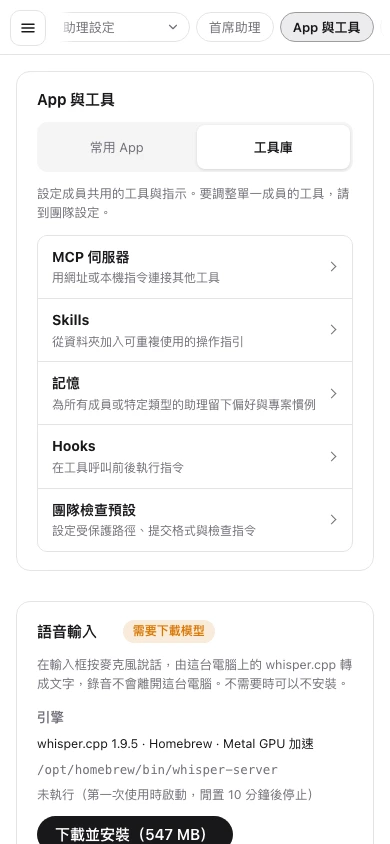
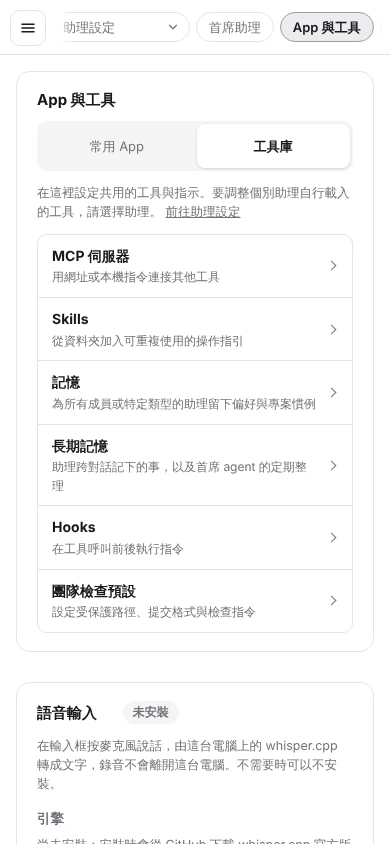
Show long-term memory in the guided tour and the site's docs, with new screenshots
Guided tour
- A "Long-term memory" step after "Connect apps to your chats", in both
  languages; TOUR_VERSION 38, so a browser that finished the tour sees it once.
- test/tour.test.ts (the changed steps since each version, the fingerprint) and
  e2e/specs/appearance.spec.ts (the returning browser's steps) follow it; the e2e
  README in both languages says so.

Site docs
- The Tools page's Long-term memory section, in both languages, shows the card
  under a reply and the Settings row, from new screenshots of the built UI with
  the fake CLIs (each with its origin in a .webp.json sidecar).
- The Tool library screenshots (desktop and phone, both languages) taken again:
  they show six categories now.

Wording
- zh-TW: a space after "首席 agent" before Chinese text, as elsewhere.

Claude-Session: https://claude.ai/code/session_01KJpwTSWu9AnuzKRkqZuWi9

diff --git a/src/web/locales/zh-TW.ts b/src/web/locales/zh-TW.ts
@@ -922,11 +922,11 @@ export const zhTW = {
     hint: '助理在對話中學到、之後的對話也用得到的事：你的偏好和決定、查證過的事實、要避開的錯誤。每則記憶各自一筆，你可以修改、釘選、擱置或刪除。釘選的記憶每個對話都會帶入；其他記憶在和你說的話相關時才提供給助理。',
     enabled: '讓助理讀取和記下長期記憶',
     review: '助理新記下或修正的記憶，要我保留後才使用',
-    autoTidy: '讓首席 agent定期整理記憶',
+    autoTidy: '讓首席 agent 定期整理記憶',
     autoTidyHint: (changes: number, hours: number) =>
-      `累積 ${changes} 則新增或修改的記憶後，首席 agent會對照它們出自的對話來修正、合併和擱置，並挑出每個對話都需要的記憶釘選；最多每 ${hours} 小時一次，使用首席 agent的帳號。你寫的記憶不會被改動。`,
+      `累積 ${changes} 則新增或修改的記憶後，首席 agent 會對照它們出自的對話來修正、合併和擱置，並挑出每個對話都需要的記憶釘選；最多每 ${hours} 小時一次，使用首席 agent 的帳號。你寫的記憶不會被改動。`,
     tidyNow: '立即整理',
-    tidying: '首席 agent正在整理記憶…',
+    tidying: '首席 agent 正在整理記憶…',
     lastTidy: (when: string, changes: number) => `上次整理：${when}，${changes} 項變更`,
     lastTidyFailed: (when: string, error: string) => `上次整理失敗（${when}）：${error}`,
     changedSince: (n: number) => `自上次整理後有 ${n} 則記憶變動`,
@@ -948,7 +948,7 @@ export const zhTW = {
     everywhere: '所有對話',
     folder: (name: string) => `資料夾：${name}`,
     pinned: '已釘選',
-    pinnedByLead: '首席 agent釘選',
+    pinnedByLead: '首席 agent 釘選',
     pin: '釘選',
     unpin: '取消釘選',
     edit: '編輯',
@@ -1841,7 +1841,7 @@ export const zhTW = {
       mcp: '用網址或本機指令連接其他工具',
       skills: '從資料夾加入可重複使用的操作指引',
       memory: '為所有成員或特定類型的助理留下偏好與專案慣例',
-      longTerm: '助理跨對話記下的事，以及首席 agent的定期整理',
+      longTerm: '助理跨對話記下的事，以及首席 agent 的定期整理',
       hooks: '在工具呼叫前後執行指令',
       checks: '設定受保護路徑、提交格式與檢查指令',
     },
@@ -2737,6 +2737,16 @@ export const zhTW = {
           '使用 Gmail、Google Calendar 或 Google Drive 時，在該服務的設定中登入 Google。在各帳號的 Drive 卡片上可開啟文件編輯，也可單獨移除 Drive，保留 Gmail 和行事曆。「帳號登入設定（OAuth 2.0）」提供設定教學，也可解除整個 Google 或 Microsoft 帳號的連結。',
           '展開個別工具那一列，選擇可使用該工具的助理。Slack 請在「從 Relay 傳送訊息」中選擇可擬稿的助理。傳送訊息、變更 Obsidian 筆記及寫入 Google 文件前，Relay 都會先顯示預覽，等你確認。',
           '要加入自訂工具、Skill 或共用指示，切換到「工具庫」分頁。',
+        ],
+      },
+      {
+        title: '長期記憶',
+        body: '助理會記下在一個對話中學到、之後的對話也用得到的事：你的偏好和決定、查證過的事實、要避開的錯誤。你可以要助理記住某件事，也可以讓它自己判斷什麼值得保留。',
+        points: [
+          '記下記憶的回覆，會在文字下方顯示長期記憶卡片：擱置會讓助理不再拿到它，還原可以恢復',
+          '釘選的記憶會帶進每個對話；其他記憶在和你說的話相關時才提供給助理',
+          '設定 → App 與工具 → 工具庫 → 長期記憶列出所有記憶，可以搜尋、編輯、釘選、擱置或刪除，也可以讓新記憶等你保留後才使用',
+          '首席 agent 會不時對照記憶來自的對話整理它們，但從不修改你寫的記憶',
         ],
       },
       {

diff --git a/test/tour.test.ts b/test/tour.test.ts
@@ -45,6 +45,7 @@ describe('guided tour', () => {
         'Team checks',
         'Automations',
         'Connect apps to your chats',
+        'Long-term memory',
       ]);
       expect(titles(21)).toEqual([
         'Connect your phone',
@@ -53,6 +54,7 @@ describe('guided tour', () => {
         'Notifications and sound',
         'Automations',
         'Connect apps to your chats',
+        'Long-term memory',
       ]);
       expect(titles(22)).toEqual([
         'Connect your phone',
@@ -61,6 +63,7 @@ describe('guided tour', () => {
         'Notifications and sound',
         'Automations',
         'Connect apps to your chats',
+        'Long-term memory',
       ]);
       for (let version = 23; version <= 32; version++) {
         expect(titles(version)).toEqual([
@@ -68,13 +71,15 @@ describe('guided tour', () => {
           'Start a new chat',
           'Automations',
           'Connect apps to your chats',
+          'Long-term memory',
         ]);
       }
-      expect(titles(33)).toEqual(['API keys and endpoints for open-source agents', 'Start a new chat', 'Automations']);
-      expect(titles(34)).toEqual(['API keys and endpoints for open-source agents', 'Start a new chat', 'Automations']);
-      expect(titles(35)).toEqual(['API keys and endpoints for open-source agents', 'Start a new chat', 'Automations']);
-      expect(titles(36)).toEqual(['Start a new chat', 'Automations']);
-      expect(tourIndices(37)).toEqual([]);
+      expect(titles(33)).toEqual(['API keys and endpoints for open-source agents', 'Start a new chat', 'Automations', 'Long-term memory']);
+      expect(titles(34)).toEqual(['API keys and endpoints for open-source agents', 'Start a new chat', 'Automations', 'Long-term memory']);
+      expect(titles(35)).toEqual(['API keys and endpoints for open-source agents', 'Start a new chat', 'Automations', 'Long-term memory']);
+      expect(titles(36)).toEqual(['Start a new chat', 'Automations', 'Long-term memory']);
+      expect(titles(37)).toEqual(['Long-term memory']);
+      expect(tourIndices(38)).toEqual([]);
       value = '21';
       expect(pendingTour()).toBe(21);
       markDone();
@@ -118,6 +123,6 @@ describe('guided tour', () => {
     // The steps changed? Raise TOUR_VERSION in src/web/tour.ts so people who finished the tour
     // see the updated steps, then update both values here. For a change not worth showing again (a typo), update only the
     // fingerprint.
-    expect({ version: TOUR_VERSION, fingerprint }).toEqual({ version: 37, fingerprint: 'eae724ee5cd3' });
+    expect({ version: TOUR_VERSION, fingerprint }).toEqual({ version: 38, fingerprint: 'c963e30c3460' });
   });
 });

diff --git a/e2e/specs/appearance.spec.ts b/e2e/specs/appearance.spec.ts
@@ -86,7 +86,7 @@ test.describe('the guided tour', () => {
     await page.reload();
     const update = page.getByRole('dialog');
     await expect(update).toHaveAccessibleName('Connect your phone');
-    await expect(update.locator('.tour-count:visible')).toHaveText('1 / 7');
+    await expect(update.locator('.tour-count:visible')).toHaveText('1 / 8');
     await expect(update.locator('.tour-art')).toHaveCount(0);
     await update.getByRole('button', { name: 'Next' }).click();
     await expect(update).toHaveAccessibleName('API keys and endpoints for open-source agents');
@@ -97,7 +97,7 @@ test.describe('the guided tour', () => {
     // Closing an unfinished update keeps the last completed version, including changes from skipped releases.
     await page.reload();
     await expect(update).toHaveAccessibleName('Connect your phone');
-    await expect(update.locator('.tour-count:visible')).toHaveText('1 / 7');
+    await expect(update.locator('.tour-count:visible')).toHaveText('1 / 8');
     await update.getByRole('button', { name: 'Next' }).click();
     await expect(update).toHaveAccessibleName('API keys and endpoints for open-source agents');
     await update.getByRole('button', { name: 'Next' }).click();
@@ -110,6 +110,8 @@ test.describe('the guided tour', () => {
     await expect(update).toHaveAccessibleName('Automations');
     await update.getByRole('button', { name: 'Next' }).click();
     await expect(update).toHaveAccessibleName('Connect apps to your chats');
+    await update.getByRole('button', { name: 'Next' }).click();
+    await expect(update).toHaveAccessibleName('Long-term memory');
     await update.getByRole('button', { name: 'Done', exact: true }).click();
     await page.reload();
     await appShown(page);
@@ -121,6 +123,8 @@ test.describe('the guided tour', () => {
     await expect(update).toHaveAccessibleName('Start a new chat');
     await update.getByRole('button', { name: 'Next' }).click();
     await expect(update).toHaveAccessibleName('Automations');
+    await update.getByRole('button', { name: 'Next' }).click();
+    await expect(update).toHaveAccessibleName('Long-term memory');
     await update.getByRole('button', { name: 'Done', exact: true }).click();
     await expect(update).toHaveCount(0);
     await page.getByRole('link', { name: /Settings & sign-in/ }).click();

diff --git a/site/zh-TW/docs/tools/index.html b/site/zh-TW/docs/tools/index.html
@@ -586,7 +586,15 @@
         <section id="long-term-memory" aria-labelledby="long-term-memory-title">
           <h2 id="long-term-memory-title">長期記憶</h2>
           <p>agent 會把在對話中學到、之後的對話也用得到的事記下來，例如你的偏好和決定，或查證過的事實；在你要它記住某件事，或明顯值得保留時記下。每則記憶都會顯示在記下它的回覆下方的<b>長期記憶</b>卡片裡，你可以在那裡擱置或還原它。釘選的記憶會帶進每個對話；其他記憶在和你說的話相關時才提供給 agent。</p>
+          <figure class="doc-figure">
+            <a href="../../../assets/media/docs/tools-memory-card-zh-TW.webp"><img src="../../../assets/media/docs/tools-memory-card-zh-TW.webp" width="754" height="78" alt="回覆下方的長期記憶卡片：記下「我們都在週五發版，週一不發版」，標示使用中，並有擱置按鈕。" loading="lazy" /></a>
+            <figcaption>記下記憶的回覆下方的卡片。</figcaption>
+          </figure>
           <p>展開<b>長期記憶</b>可以搜尋、新增、編輯、釘選、擱置與刪除記憶，也可以選擇新記憶是否要等你保留。首席 agent 會不時對照記憶來自的對話整理它們，也可以按<b>立即整理</b>馬上進行；它從不修改你寫的記憶，agent 也從不刪除記憶。</p>
+          <figure class="doc-figure">
+            <a href="../../../assets/media/docs/tools-long-term-memory-zh-TW.webp"><img src="../../../assets/media/docs/tools-long-term-memory-zh-TW.webp" width="840" height="759" alt="展開的長期記憶列：三個開關、立即整理、新增記憶的輸入框，以及三則使用中的記憶，其中一則已釘選，每則都標出怎麼知道的、作者，以及釘選、編輯與擱置按鈕。" loading="lazy" /></a>
+            <figcaption>依狀態列出每則記憶，以及作者和來自哪個對話。</figcaption>
+          </figure>
         </section>
 
         <section id="hooks" aria-labelledby="hooks-title">

diff --git a/site/docs/tools/index.html b/site/docs/tools/index.html
@@ -609,9 +609,17 @@
               they checked, when you ask them to remember something or when it is clearly worth keeping. Each note shows in a
               <b>Long-term memory</b> card under the reply that saved it, where you can set it aside or restore it. Pinned notes
               come with every chat; the others reach an agent when they bear on what you said.</p>
+          <figure class="doc-figure">
+            <a href="../../assets/media/docs/tools-memory-card-en.webp"><img src="../../assets/media/docs/tools-memory-card-en.webp" width="754" height="78" alt="A Long-term memory card under a reply: Saved, We release on Fridays, never on Mondays, In use, and a Set aside button." loading="lazy" /></a>
+            <figcaption>The card under a reply that saved a note.</figcaption>
+          </figure>
           <p>Open <b>Long-term memory</b> to search, add, edit, pin, set aside and delete notes, and to choose whether new
               notes wait for you to keep them. Now and then the lead agent tidies them against the chats they came from, or
               at once with <b>Tidy up now</b>; it never changes notes you wrote, and agents never delete a note.</p>
+          <figure class="doc-figure">
+            <a href="../../assets/media/docs/tools-long-term-memory-en.webp"><img src="../../assets/media/docs/tools-long-term-memory-en.webp" width="840" height="799" alt="The Long-term memory row opened: its three switches, Tidy up now, a box to add a note, and three notes in use, one pinned, each with how it is known, who wrote it and its Pin, Edit and Set aside buttons." loading="lazy" /></a>
+            <figcaption>Every note, by state, with who wrote it and the chat it came from.</figcaption>
+          </figure>
         </section>
 
         <section id="hooks" aria-labelledby="hooks-title">

diff --git a/src/web/locales/en.ts b/src/web/locales/en.ts
@@ -2753,6 +2753,16 @@ export const en: Messages = {
         ],
       },
       {
+        title: 'Long-term memory',
+        body: 'Agents keep what they learn in one chat that later chats can use: your preferences and decisions, facts they checked, mistakes to avoid. Ask an agent to remember something, or let it judge what is worth keeping.',
+        points: [
+          'A reply that saved a note shows it in a Long-term memory card under its text: Set aside stops agents getting it, and Restore brings it back',
+          'Pinned notes come with every chat; the others reach an agent when they bear on what you said',
+          'Settings → Apps and tools → Tool library → Long-term memory lists every note to search, edit, pin, set aside or delete, and can hold new notes until you keep them',
+          'Now and then the lead agent tidies the notes against the chats they came from; it never changes notes you wrote',
+        ],
+      },
+      {
         title: 'Agent sessions and AgentsView',
         body: 'Want a close look at what each agent did? In Settings → Agent sessions:',
         points: [

diff --git a/src/web/tour.ts b/src/web/tour.ts
@@ -1,6 +1,6 @@
 // This browser's last finished or skipped tour. Pre-versioned tours stored '1' in the same key.
 const DONE_KEY = 'relay:onboarded';
-export const TOUR_VERSION = 37;
+export const TOUR_VERSION = 38;
 
 /** Ordered like tour.steps in both locales. Each revision is when that step last changed for readers. */
 export const TOUR_STEPS: { target?: string; revision: number }[] = [
@@ -23,6 +23,7 @@ export const TOUR_STEPS: { target?: string; revision: number }[] = [
   { target: 'new-schedule', revision: 37 },
   { target: 'organize', revision: 17 },
   { target: 'settings', revision: 33 }, // common apps and the tool library
+  { target: 'settings', revision: 38 }, // long-term memory
   { target: 'settings', revision: 4 }, // agent sessions
   { target: 'settings', revision: 20 }, // settings
 ];

diff --git a/docs/user-guide.zh-TW.md b/docs/user-guide.zh-TW.md
@@ -335,7 +335,7 @@ Grok 只有在你信任過的資料夾，才會讀專案自己的 `AGENTS.md` / 
 - **記憶適用的地方。** 所有對話，或只有工作目錄和記下它時相同的對話（例如某個專案的慣例和指令）。
 - **設定。** 開啟**設定 → App 與工具 → 工具庫 → 長期記憶**，可以看到所有記憶，分成**使用中**、**待確認**和**已擱置**，並標出作者、怎麼知道的（**你說的**、**已查證**、**推論，未查證**）以及來自哪個對話。你可以搜尋、**新增記憶**、**編輯**、**釘選**或**取消釘選**、**擱置**、**還原**與**刪除**。你編輯過的記憶就成為你的。助理從不刪除記憶：它要忘掉的記憶會連同原因被擱置；你寫的或釘選的記憶只有你能改（助理對它的修正會等你按**保留**）。
 - **助理新記下或修正的記憶，要我保留後才使用**會讓每則新記憶與修正都等你確認。**讓助理讀取和記下長期記憶**可以整個關閉或開啟；記憶本身會保留。
-- **整理。** 首席 agent會不時整理（累積五則新增或修改的記憶後，最多每 12 小時一次）：對照記憶來自的對話檢查新記憶、修正、合併重複的、擱置錯誤或不再值得保留的，並釘選每個對話都需要的少數幾則；**立即整理**會馬上進行。整理使用首席 agent的帳號，而且從不修改你寫的記憶。上次整理的摘要顯示在記憶清單上方。關閉**讓首席 agent定期整理記憶**後，就只在你要求時整理。
+- **整理。** 首席 agent 會不時整理（累積五則新增或修改的記憶後，最多每 12 小時一次）：對照記憶來自的對話檢查新記憶、修正、合併重複的、擱置錯誤或不再值得保留的，並釘選每個對話都需要的少數幾則；**立即整理**會馬上進行。整理使用首席 agent 的帳號，而且從不修改你寫的記憶。上次整理的摘要顯示在記憶清單上方。關閉**讓首席 agent 定期整理記憶**後，就只在你要求時整理。
 
 刪除記憶來自的對話時，記憶仍會保留；記憶只存在這台電腦上 Harness Relay 的資料庫裡，分享的對話不包含記憶卡片。記憶是依詞和你說的話比對，所以要讓每個對話都拿到某則記憶，請把它釘選。這和工具庫的**記憶**那一列不同：那一列是你寫給每位助理簡報的筆記。
 

diff --git a/e2e/README.md b/e2e/README.md
@@ -661,7 +661,7 @@ The Tool library links to the agent picker. Following the link, choosing Codex, 
 
 | Scenario | What is checked |
 | --- | --- |
-| Returning browser | A browser that missed several releases sees the revised steps once each. Reloading an unfinished tour restarts those steps. Settings can still replay the full tour. The revised tour points to the Common apps and Tool library tabs under Apps and tools. |
+| Returning browser | A browser that missed several releases sees the revised steps once each. Reloading an unfinished tour restarts those steps. Settings can still replay the full tour. The revised tour points to the Common apps and Tool library tabs under Apps and tools, and ends with the new Long-term memory step. |
 | The tour shows on a first visit, steps through to the end, and is not shown again | It opens at step 1 without Back; Next, Back and the arrow keys move; the last step has no Skip, **Get started** closes it, and a reload does not bring it back. |
 | The tour can be skipped, and Settings starts it again | Skipped, it stays away after a reload; **Settings → Guided tour → Replay the tour** opens it at step 1, Escape closes it, and it stays done. |
 | On a phone, the tour is a sheet at the bottom of the screen, and a long step's text scrolls above its buttons | At 390×560, the longest step (file permission) sits at the bottom of the screen with **Next** inside it; its text scrolls, also with End while **Next** has the focus, a line shows above the buttons, and the next step starts at its top. |
